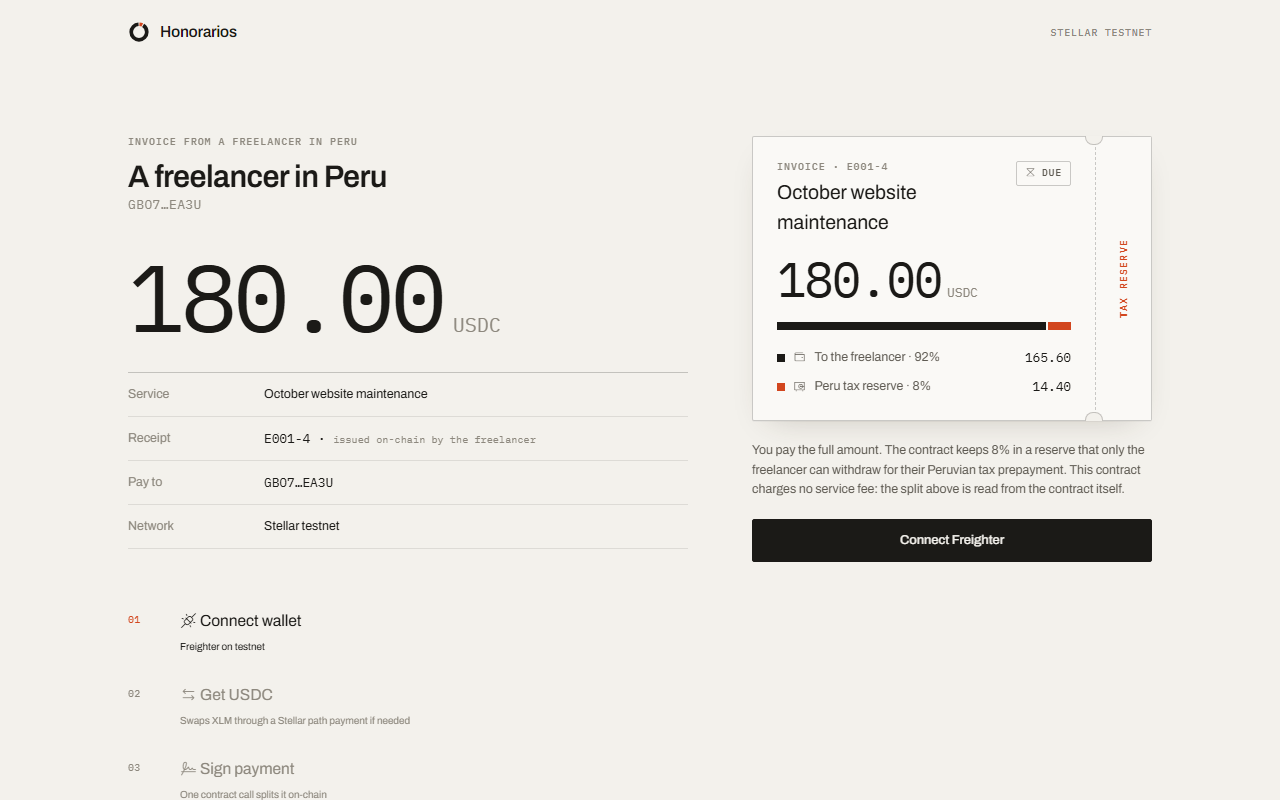
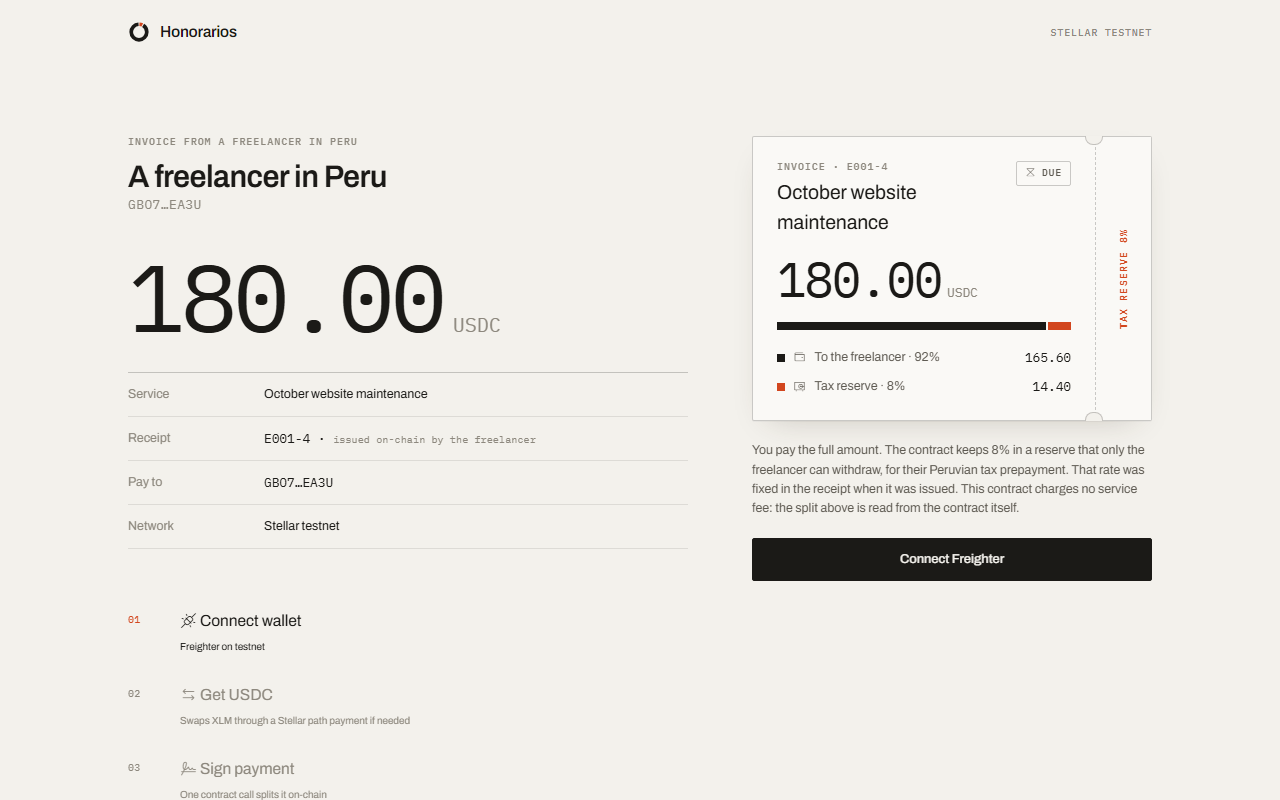
docs: v2 screenshots from the live app

Changed region(s): [[0.5625, 0.5625, 0.9062, 0.75], [0.875, 0.3125, 0.9062, 0.4062], [0.625, 0.4688, 0.7188, 0.5]]

diff --git a/web/src/panel.css b/web/src/panel.css
@@ -127,7 +127,7 @@ select.inline { background: none; border: 0; color: inherit; font: inherit; padd
 }
 
 /* The reserve verdict, placed right next to the figure it qualifies. */
-.tag { display: inline-flex; align-items: center; gap: 8px; font-size: var(--t-s); padding: 6px 12px; border: 1px solid var(--rule-strong); border-radius: 2px; color: var(--ink-2) }
+.tag { display: inline-flex; align-items: center; gap: 8px; font-size: var(--t-s); padding: 6px 12px; border: 1px solid var(--rule-strong); border-radius: 2px; color: var(--ink-2); margin-bottom: 14px }
 .tag.warn { border-color: var(--warn); color: var(--warn) }
 .tag.ok { border-color: var(--rule-strong) }
 .wd-hint { grid-column: 1 / -1; font-size: var(--t-s); line-height: 1.5 }

diff --git a/README.md b/README.md
@@ -73,7 +73,7 @@ Honorarios is built by a Peruvian freelancer paid in dollars. One of his clients
 
 ## How it looks
 
-These screenshots were taken on v1, when the Peru rate was fixed in the contract. The v2 app adds the "Where do you pay taxes?" step before the first receipt.
+Screenshots of the live v2 app, sample dashboard on the Peru preset, taken October 6, 2026.
 
 | Sample dashboard: a month that crosses the threshold | Prepayment estimate in soles |
 |---|---|
@@ -83,7 +83,7 @@ These screenshots were taken on v1, when the Peru rate was fixed in the contract
 |---|---|
 | <img src="docs/screenshots/03-payment-due.png" alt="Payment page for a receipt, with the split between the freelancer and the reserve" width="440"> | <img src="docs/screenshots/04-payment-done.png" alt="The same receipt marked as paid, with a link to the transaction" width="440"> |
 
-And this is how a rejected attack looks in Stellar Expert, the second payment of receipt E001-1 (v1):
+And this is how a rejected attack looks in Stellar Expert, the second payment of receipt E001-1 on the v2 contract:
 
 <img src="docs/screenshots/09-rejected-attack.png" alt="Failed transaction in Stellar Expert: pay with receipt E001-1, which is already paid" width="640">
 
@@ -280,7 +280,7 @@ What we did not find is the combination: a set-aside that happens inside the cro
 - The app does not issue electronic receipts. The receipt recorded by the contract is the app's own, and SUNAT's is copied from the draft into SUNAT Operaciones en Línea. The draft does not include the minimum amount above which a Peruvian agent withholds: we have not verified it.
 - The detail of each payment and the list of pending receipts are rebuilt from RPC events, which testnet keeps for about a week. The monthly figures, the reserve, the profile and the status of each receipt live in the contract and do not expire. After that window the dashboard says so, and the draft for an old payment can no longer be generated.
 - The frontend's tax and split logic has 38 tests and the contract has 39. The rest of the frontend has no automated tests: the files in `web/e2e/` are walkthrough scripts with no assertions.
-- The video and screenshots were recorded on v1, with the rate fixed at 8%.
+- The video was recorded on v1, with the rate fixed at 8%.
 - In this deployment, the account that would receive the fee is the test account that deployed the contract. With the fee at zero it never receives anything.
 - The reserve is an organizing aid and does not replace advice from an accountant.
 
